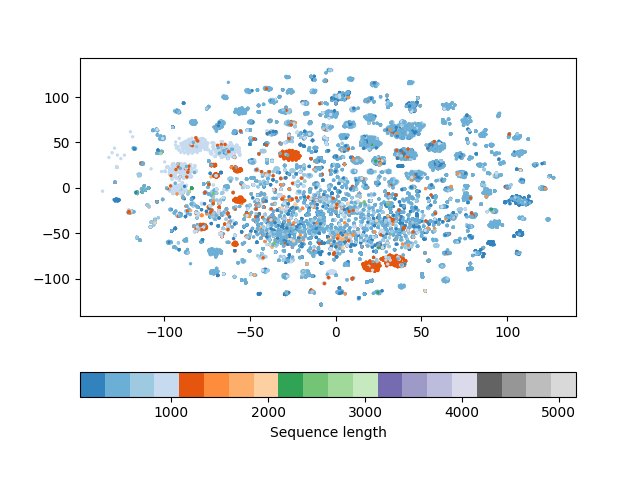
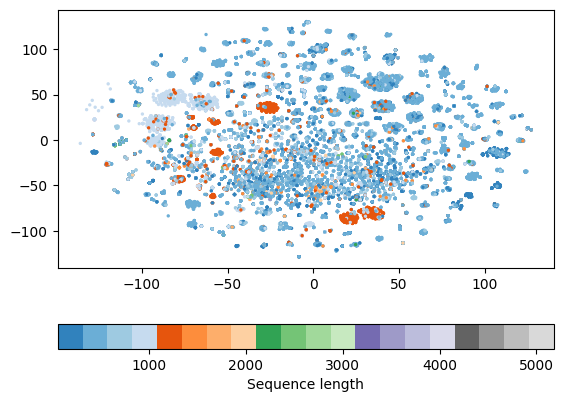
added embedding graphs

diff --git a/Plot_embeddings.py b/Plot_embeddings.py
@@ -84,7 +84,7 @@ plt.scatter(prot_embedded[:,0], prot_embedded[:,1], s=2, c=protein_seq['length']
 #plt.colorbar()
 plt.colorbar(label="Sequence length", orientation="horizontal")
 
-plt.savefig('ProteinEmbedded_length.png')
+plt.savefig('ProteinEmbedded_length.png', bbox_inches='tight')
 plt.close()
 
 print(protein_seq)
